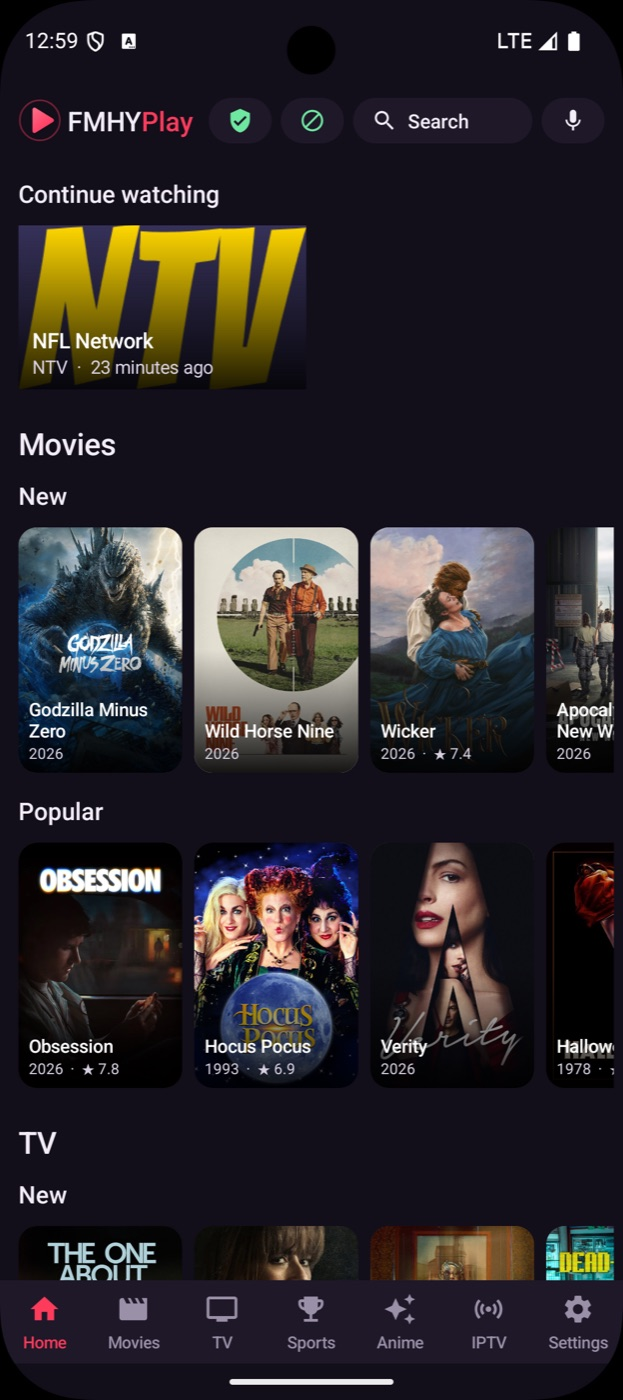
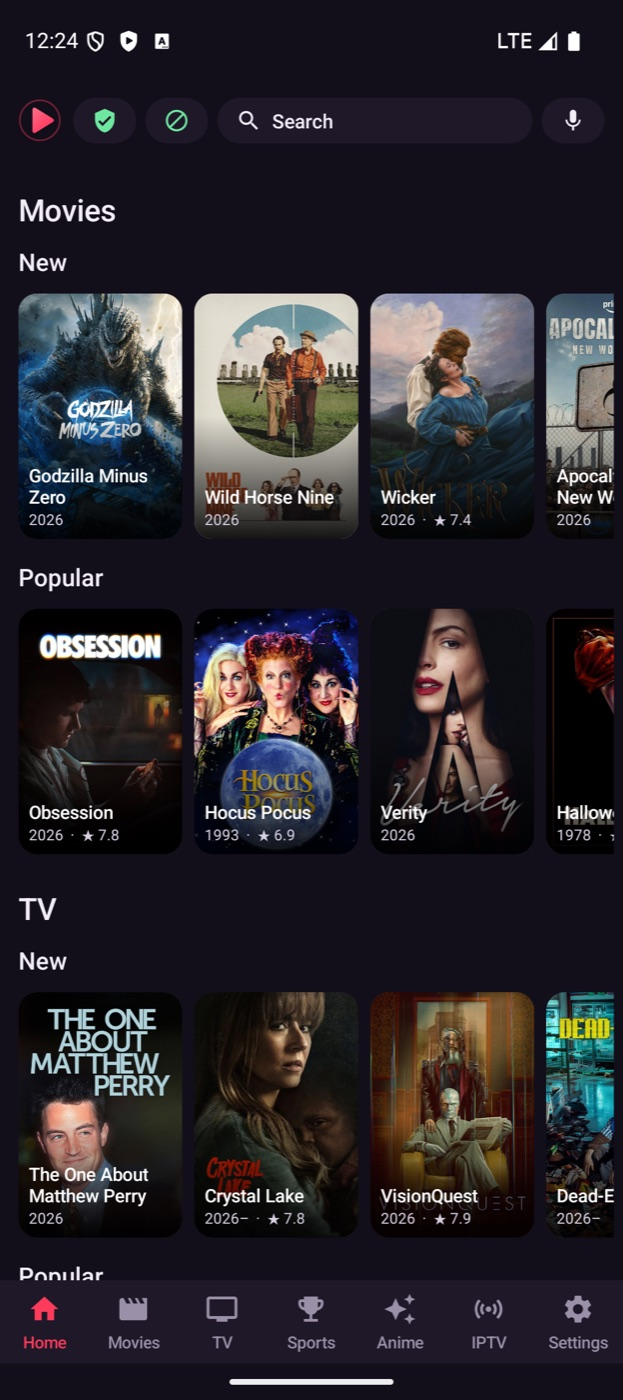
Version 2.18.0: docs, screenshots and release notes
- README, docs/index.html and the user guide: FMHYPlayer, the new button row,
  Episodes / Previous / Next, Skip intro and credits, Sub / Dub, subtitles in
  any language with auto-sync, picture in picture, hold for 2x.
- New screenshots of the player (landscape and the Episodes list) and the
  phone home.

diff --git a/docs/guide.html b/docs/guide.html
@@ -1,8 +1,8 @@
 <!doctype html>
 <html lang="en"><head><meta charset="utf-8"><meta name="viewport" content="width=device-width,initial-scale=1">
 <title>User guide - FMHYPlay</title>
-<meta name="description" content="How to install and use FMHYPlay: the TV remote, touch controls, the native player, IPTV, WARP, ad blocking, your own playlists and Simkl.">
-<meta property="og:title" content="User guide - FMHYPlay"><meta property="og:description" content="How to install and use FMHYPlay: the TV remote, touch controls, the native player, IPTV, WARP, ad blocking, your own playlists and Simkl."><meta property="og:image" content="banner.png">
+<meta name="description" content="How to install and use FMHYPlay: the TV remote, touch controls, FMHYPlayer, IPTV, WARP, ad blocking, your own playlists and Simkl.">
+<meta property="og:title" content="User guide - FMHYPlay"><meta property="og:description" content="How to install and use FMHYPlay: the TV remote, touch controls, FMHYPlayer, IPTV, WARP, ad blocking, your own playlists and Simkl."><meta property="og:image" content="banner.png">
 <meta name="theme-color" content="#120e1a"><link rel="icon" href="icon.png"><link rel="stylesheet" href="style.css">
 </head><body>
 <header class="nav"><div class="in">
@@ -11,7 +11,7 @@
 </div></header>
 
 <main><div class="layout">
-<aside class="toc"><a href="#install">Install</a><a href="#browse">Browse and play</a><a href="#favorites">Favorites and My list</a><a href="#addsite">Add your own site</a><a href="#remote">TV remote</a><a href="#touch">Phone and tablet</a><a href="#player">The player</a><a href="#episodes">Episodes and servers</a><a href="#cast">Cast to TV</a><a href="#subtitles">Subtitles</a><a href="#simkl">Simkl</a><a href="#punchplay">PunchPlay</a><a href="#iptv">IPTV</a><a href="#addstream">Add a stream or playlist</a><a href="#sources">Your own sources</a><a href="#network">WARP and ad blocking</a><a href="#troubleshooting">Troubleshooting</a></aside>
+<aside class="toc"><a href="#install">Install</a><a href="#browse">Browse and play</a><a href="#favorites">Favorites and My list</a><a href="#addsite">Add your own site</a><a href="#remote">TV remote</a><a href="#touch">Phone and tablet</a><a href="#player">FMHYPlayer</a><a href="#episodes">Episodes and skipping</a><a href="#cast">Cast to TV</a><a href="#subtitles">Subtitles</a><a href="#simkl">Simkl</a><a href="#punchplay">PunchPlay</a><a href="#iptv">IPTV</a><a href="#addstream">Add a stream or playlist</a><a href="#sources">Your own sources</a><a href="#network">WARP and ad blocking</a><a href="#troubleshooting">Troubleshooting</a></aside>
 <article>
 <h1>User guide</h1>
 <p class="sub">Everything you need to use FMHYPlay on a TV or a phone.</p>
@@ -42,11 +42,11 @@ adb install -r FMHYPlay-TV-vX.Y.Z.apk</code></pre>
 <p>The tabs along the top (bottom on a phone) are <b>Home</b>, <b>Movies</b>, <b>TV</b>, <b>Sports</b>, <b>Anime</b>, <b>IPTV</b> and <b>Settings</b>.</p>
 <ul>
 <li><b>Sites</b> are the streaming sites from the FMHY lists, grouped by what they carry. Pick one to open it.</li>
-<li><b>Catalog rows</b> show what is popular. Pick a title, then <i>Watch on</i> a site: on many sites it opens the title's own page, on the others it searches for the name.</li>
+<li><b>Catalog rows</b> show what is popular. Pick a title, then <i>Watch on</i> a site: on about 70 sites it opens the title's own page (or the episode you picked), on the others it searches for the name and opens the match. Anime titles list anime sites only, and the sites that open episodes directly come first.</li>
 <li><b>Continue watching</b> on Home brings back the last titles you opened.</li>
 <li>Hold <kbd>OK</kbd> (long-press on a phone) on a site for favorites and mirrors.</li>
 </ul>
-<p>When a site starts a video, FMHYPlay takes it over and opens the native player. <kbd>Back</kbd> returns to the site, and a small <b>Native player</b> button in the corner brings the player back.</p>
+<p>When a site starts a video, FMHYPlay takes it over and opens it in <b>FMHYPlayer</b>. <kbd>Back</kbd> returns to the site, and the <b>FMHYPlayer</b> button on the site's own player brings it back. Sites' "Join our Discord", "What's new" and donate pop-ups are closed for you.</p>
 
 <h2 id="favorites">Favorites and My list</h2>
 <p>Mark what you use most so it is one press away.</p>
@@ -61,7 +61,7 @@ adb install -r FMHYPlay-TV-vX.Y.Z.apk</code></pre>
 <ol>
 <li>On <b>Home</b>, find the <b>Favorites</b> row and press the <b>+ Add a site</b> card.</li>
 <li>Type or paste the address (for example <code>example.com</code>; <code>https://</code> is added for you) and press <i>Add</i>.</li>
-<li>The site appears in Favorites. Open it like any other: the native player, ad blocking, the remote cursor and the Servers and Quality buttons all work on it.</li>
+<li>The site appears in Favorites. Open it like any other: FMHYPlayer, ad blocking, the remote cursor and the Servers and Quality buttons all work on it.</li>
 </ol>
 <p>Hold <kbd>OK</kbd> on it to remove it from your favorites.</p>
 
@@ -72,9 +72,9 @@ adb install -r FMHYPlay-TV-vX.Y.Z.apk</code></pre>
 <tr><td rowspan="2">Sites</td><td>Arrows</td><td>Move a round cursor over the page (or the focus, in focus mode)</td></tr>
 <tr><td>Hold <kbd>OK</kbd> 5 s</td><td>Switch between cursor and focus mode for that site</td></tr>
 <tr><td rowspan="5">Player</td><td><kbd>Left</kbd> <kbd>Right</kbd></td><td>Seek 10 s; hold to go faster (30 s, then 60 s)</td></tr>
-<tr><td><kbd>OK</kbd> / Play</td><td>Pause and play</td></tr>
+<tr><td><kbd>OK</kbd> / Play</td><td>Pause and play; when <i>Skip intro</i> or <i>Next episode</i> shows, it presses that</td></tr>
 <tr><td><kbd>Up</kbd></td><td>Show the controls</td></tr>
-<tr><td><kbd>Down</kbd> / <kbd>Menu</kbd></td><td>Move to the buttons (Servers, Quality, Audio, Subtitles, Speed, Zoom)</td></tr>
+<tr><td><kbd>Down</kbd> / <kbd>Menu</kbd></td><td>Move to the buttons; the one the remote is on shows its name above it</td></tr>
 <tr><td><kbd>Back</kbd></td><td>Close the player and return to the site</td></tr></table>
 <p>Seeking waits until you stop pressing, then jumps once, so holding the key does not make the stream reload on every step.</p>
 
@@ -83,25 +83,31 @@ adb install -r FMHYPlay-TV-vX.Y.Z.apk</code></pre>
 <tr><td>Tap the video</td><td>Show or hide the controls</td></tr>
 <tr><td>Double-tap the left or right third</td><td>Back or forward 10 seconds</td></tr>
 <tr><td>Double-tap the middle</td><td>Pause and play</td></tr>
+<tr><td>Hold the right half</td><td>Play at 2x until you let go</td></tr>
+<tr><td>Hold the left half</td><td>Go back at 2x until you let go</td></tr>
 <tr><td>Swipe up or down on the left half</td><td>Brightness</td></tr>
 <tr><td>Swipe up or down on the right half</td><td>Volume</td></tr>
 <tr><td>Drag the progress bar</td><td>Seek (it jumps once, when you let go)</td></tr></table>
-<p>The player is landscape on phones, whichever way up you hold it, and it keeps clear of camera cut-outs.</p>
+<p>The player follows the rotation lock (the Full screen button turns it), and it keeps clear of camera cut-outs. <b>Picture in picture:</b> press Home while a video plays and it keeps playing in a small window, with play and pause; tap it for full screen, close it to stop.</p>
 
-<h2 id="player">The player</h2>
-<p>The row of buttons shows each setting's current value. A pink value means it is not the default.</p>
-<table><tr><th>Button</th><th>Shows</th><th>Opens</th></tr>
-<tr><td>Quality</td><td>Height and frame rate, for example <code>1080p60</code></td><td>The qualities the stream offers, or the site's own quality list for sites that serve one playlist per quality. The frame rate comes from the stream when it declares one, otherwise it is measured from the frames being shown.</td></tr>
-<tr><td>Audio</td><td>Language code</td><td>The stream's audio tracks by language (only when there is more than one). The language you pick here is remembered: the next videos start in it when they have it, otherwise in your device's language.</td></tr>
-<tr><td>Volume boost, Dialog boost</td><td><code>+6</code>, <code>On</code></td><td>Louder sound (up to +12 dB) and clearer voices for this video; the defaults are in <i>Settings, Player</i></td></tr>
-<tr><td>Subtitles</td><td><code>Off</code> or a language</td><td>The stream's subtitles, a search in OpenSubtitles, and the size, position and timing panel</td></tr>
-<tr><td>Speed</td><td><code>1x</code></td><td>0.5x to 2x</td></tr>
-<tr><td>Zoom</td><td><code>Fit</code></td><td>Cycles Fit, Fill (crops to cover the screen), Stretch, 16:9 and 4:3. Every playback starts on Fit.</td></tr></table>
+<h2 id="player">FMHYPlayer</h2>
+<p>One row of buttons at the bottom; the line under the title says what is playing and what is picked (for example <i>Season 2 · Episode 3 · 1080p · English · Dub</i>). A button only shows when it has something to offer.</p>
+<table><tr><th>Button</th><th>What it does</th></tr>
+<tr><td>Previous, Next</td><td>The episode before or after this one (series and anime).</td></tr>
+<tr><td>Quality</td><td>The qualities the stream offers (with frame rate, for example <code>1080p60</code>), or the site's own quality list for sites that serve one playlist per quality.</td></tr>
+<tr><td>Audio</td><td>The stream's audio tracks by language. The language you pick is remembered: the next videos start in it when they have it, otherwise in your device's language.</td></tr>
+<tr><td>SUB / DUB</td><td>Anime: switches between subtitled and dubbed in one press. The badge says which is playing, and each site remembers your pick.</td></tr>
+<tr><td>Episodes</td><td>The list of episodes: seasons across the top, each episode with its picture and name. The one playing is marked; pick another and it opens.</td></tr>
+<tr><td>Servers</td><td>The site's own servers (see below).</td></tr>
+<tr><td>Subtitles</td><td>The stream's subtitles, <i>Search subtitles</i>, and <i>Settings</i> (size, position, color, background, timing).</td></tr>
+<tr><td>More</td><td>Speed (0.5x to 2x), Volume boost (up to +12 dB), Dialog boost (clearer voices), Zoom (Fit, Fill, Stretch, 16:9, 4:3) and From the start.</td></tr>
+<tr><td>Cast, Full screen</td><td>Send the video to a TV (phone), and turn the phone.</td></tr></table>
 <div class="note">For live channels the −10 and +10 buttons and the progress bar are hidden, since there is nothing to seek in.</div>
 
-<h2 id="episodes">Episodes and servers</h2>
-<p>To switch episode, press <b>Back</b> to return to the site's own player and choose the episode there. FMHYPlay ignores the stream you just left and waits for a different one, then opens it in the native player by itself.</p>
-<p>The <b>Servers</b> button lists the site's own servers (the buttons named Server, Source or Mirror, including ones behind a menu). Choose one: the player closes, FMHYPlay presses it on the site, and the new stream opens by itself.</p>
+<h2 id="episodes">Episodes, skipping and servers</h2>
+<p><b>Episodes:</b> pick a series or anime episode from the catalog, or from the player's <b>Episodes</b>, <b>Previous</b> and <b>Next</b>. On sites whose episode addresses FMHYPlay knows (34 TV and 22 anime sites) the episode opens directly; on the others FMHYPlay opens the show's page and presses the episode in the site's own list, also when it sits behind the player's Episodes and Season menus. The new stream opens in FMHYPlayer by itself.</p>
+<p><b>Skip intro, recap and credits:</b> during an intro or a "Previously on" a <i>Skip intro</i> button shows over the picture; tap it or press <kbd>OK</kbd>. At the credits it becomes <i>Next episode</i> with a 10 second countdown, and the next episode starts by itself. <i>Settings, Skip intros</i> skips intros and recaps without asking. The times come from TheIntroDB and AniSkip, so they are there for most popular shows, anime and many movies.</p>
+<p><b>Servers</b> lists the site's own servers (the buttons named Server, Source or Mirror, including ones behind a menu). Choose one: the player closes, FMHYPlay presses it on the site, and the new stream opens by itself.</p>
 
 <h2 id="cast">Cast to TV</h2>
 <p>Play something on the phone, tap the screen, then tap <b>Cast</b> (the first button in the player) and pick a TV. The TV carries on from the same spot, and the phone becomes the remote: play and pause, the seek bar, −10 s and +10 s, and the TV's volume (the phone's volume keys work too). <b>Stop casting</b> brings the video back to the phone where the TV was. <b>Re-scan</b>, at the end of the list, looks for TVs again.</p>
@@ -114,12 +120,14 @@ adb install -r FMHYPlay-TV-vX.Y.Z.apk</code></pre>
 <div class="note">TCL and some other TVs do not let apps start by themselves after the TV restarts. On those, open FMHYPlay once after a restart and the TV shows up on the phone again.</div>
 
 <h2 id="subtitles">Subtitles</h2>
-<p>Open <b>Subtitles</b>, choose <i>Search OpenSubtitles</i>, then a language and a release. The file is added to the stream and playback continues from the same spot. Pick a release that matches your video (for example the same source and resolution) so the timing lines up. Search needs to know which title is playing: it comes from the catalog when you started from there, otherwise from the page's title and address.</p>
-<p>The last entry in <b>Subtitles</b>, <i>Size, position, timing</i>, opens a panel with − and + buttons:</p>
+<p>Open <b>Subtitles</b>, choose <i>Search subtitles</i>, then a language (the one you picked last, your device's and English are on top, then every language by name) and a file. FMHYPlay downloads the file, converts it so every script shows right (Arabic, Hindi, Chinese and the rest), and playback continues from the same spot. Search needs to know which title is playing: it comes from the catalog when you started from there, otherwise from the page's title and address.</p>
+<p><b>Auto-sync:</b> a file made for another release is often off, sometimes by minutes (a release with a recap). FMHYPlay listens to the speech for a minute or two and lines the file up by itself; a message says when it did. Change the timing yourself and it leaves it alone.</p>
+<p>The last entry in <b>Subtitles</b>, <i>Settings</i>, opens a panel with − and + buttons:</p>
 <ul>
 <li><b>Size</b> and <b>Position</b> (+ moves them up, for TVs that show them too low or too high). Both are remembered, and <i>Settings, Subtitles</i> changes them too.</li>
+<li><b>Color</b> and <b>Background</b>.</li>
 <li><b>Timing</b>: + shows subtitles later, − earlier, 0.1 s a press. It applies to the video you are watching.</li>
-<li><i>Reset</i> puts all three back.</li>
+<li><i>Reset</i> puts them back.</li>
 </ul>
 
 <h2 id="simkl">Simkl</h2>
@@ -129,7 +137,7 @@ adb install -r FMHYPlay-TV-vX.Y.Z.apk</code></pre>
 <li>On your phone or computer open <code>simkl.com/pin</code>, sign in (or make a free account) and enter the code.</li>
 <li>The TV says <i>Connected</i> by itself.</li>
 </ol>
-<p>Only titles opened from Movies, TV or Anime count, since they carry the title's IMDb id. A title is marked watched once you pass 80% in the native player. Press <i>Settings, Simkl</i> again to disconnect.</p>
+<p>Only titles opened from Movies, TV or Anime count, since they carry the title's IMDb id. A title is marked watched once you pass 80% in FMHYPlayer. Press <i>Settings, Simkl</i> again to disconnect.</p>
 
 <h2 id="punchplay">PunchPlay</h2>
 <p><a href="https://punchplay.tv">PunchPlay</a> is another free tracker, and works the same way. You can connect both.</p>
@@ -156,7 +164,7 @@ adb install -r FMHYPlay-TV-vX.Y.Z.apk</code></pre>
 <p>Press <b>+ Playlist</b> on the IPTV tab (or <i>Settings, Add a playlist or stream</i>), paste a link and press <i>Add</i>. Give it a name: that is its row on the IPTV tab. Two kinds of link work:</p>
 <table><tr><th>You paste</th><th>You get</th></tr>
 <tr><td>A <b>playlist</b>: an M3U file that lists channels (<code>#EXTINF</code> lines)</td><td>Every channel in it, with its name, logo and group, in its own row at the top of the IPTV tab</td></tr>
-<tr><td>A single <b>stream</b>: an <code>.m3u8</code> (HLS) link, for example a camera, a live feed or a channel your provider gave you</td><td>One channel in <b>My streams</b>, under the name you gave it or named after the address (for example <code>cdn.example.com · news</code>). It plays in the native player like any other.</td></tr></table>
+<tr><td>A single <b>stream</b>: an <code>.m3u8</code> (HLS) link, for example a camera, a live feed or a channel your provider gave you</td><td>One channel in <b>My streams</b>, under the name you gave it or named after the address (for example <code>cdn.example.com · news</code>). It plays in FMHYPlayer like any other.</td></tr></table>
 <ul>
 <li><b>Xtream Codes</b>: if your provider gave you a server, username and password instead of a link, press <i>Xtream login</i> in the same dialog. The provider's live channels show in their categories. The background channel check never tests them, so the account's connection limit is not used up.</li>
 <li><b>Stalker portal (MAC)</b>: if your provider gave you a portal address (often ending in <code>/c/</code>) and a MAC address for a MAG box, press <i>Stalker portal (MAC)</i> in the same dialog and enter both. The channels get their own row; each one asks the portal for a fresh link when you play it, and the background check never tests them.</li>
@@ -187,8 +195,8 @@ My channels|https://example.com/my-channels.m3u
 <h2 id="troubleshooting">Troubleshooting</h2>
 <table><tr><th>Problem</th><th>Try</th></tr>
 <tr><td>A site does not open</td><td>Turn WARP on, or try a mirror (hold <kbd>OK</kbd> on the site).</td></tr>
-<tr><td>The player does not start</td><td>Press Play on the page first. Some sites start the stream only after a click. Then use the <b>Native player</b> button.</td></tr>
-<tr><td>"Native player could not play this"</td><td>It goes back to the page, which still plays the video itself. Try another server from the page.</td></tr>
+<tr><td>The player does not start</td><td>Press Play on the page first. Some sites start the stream only after a click. Then use the <b>FMHYPlayer</b> button on the site's player.</td></tr>
+<tr><td>"FMHYPlayer could not play this"</td><td>It goes back to the page, which still plays the video itself. Try another server from the page.</td></tr>
 <tr><td>No Servers button</td><td>It appears only when the site's own buttons were found. Use the page's own controls for that site.</td></tr>
 <tr><td>Picture looks zoomed after a quality change</td><td>Seen only on the Android emulator's software decoder; FMHYPlay restarts the decoder there. On a device, set Zoom back to Fit.</td></tr>
 <tr><td>IPTV channels disappear</td><td>They failed the check. Turn off <i>Hide offline channels</i>, or run <i>Check channels now</i> later.</td></tr></table>

diff --git a/docs/index.html b/docs/index.html
@@ -1,8 +1,8 @@
 <!doctype html>
 <html lang="en"><head><meta charset="utf-8"><meta name="viewport" content="width=device-width,initial-scale=1">
 <title>FMHYPlay: any streaming site, a real player</title>
-<meta name="description" content="A TV-first Android app that finds the video a streaming site plays and plays it in a native player, with ad blocking, an in-app WARP tunnel, IPTV and a remote-friendly interface.">
-<meta property="og:title" content="FMHYPlay: any streaming site, a real player"><meta property="og:description" content="A TV-first Android app that finds the video a streaming site plays and plays it in a native player, with ad blocking, an in-app WARP tunnel, IPTV and a remote-friendly interface."><meta property="og:image" content="banner.png">
+<meta name="description" content="A TV-first Android app that finds the video a streaming site plays and plays it in its own player, FMHYPlayer, with ad blocking, an in-app WARP tunnel, IPTV and a remote-friendly interface.">
+<meta property="og:title" content="FMHYPlay: any streaming site, a real player"><meta property="og:description" content="A TV-first Android app that finds the video a streaming site plays and plays it in its own player, FMHYPlayer, with ad blocking, an in-app WARP tunnel, IPTV and a remote-friendly interface."><meta property="og:image" content="banner.png">
 <meta name="theme-color" content="#120e1a"><link rel="icon" href="icon.png"><link rel="stylesheet" href="style.css">
 </head><body>
 <header class="nav"><div class="in">
@@ -15,16 +15,17 @@
 <h1>Any streaming site,<br>a <b>real player</b>.</h1>
 <p class="lead">FMHYPlay opens the sites you choose, finds the video they play and plays it natively: hardware decoding, nothing painted over the picture, and a remote-friendly interface.</p>
 <a class="btn p" href="https://github.com/fmhyplay/android/releases/latest">Download</a><a class="btn s" href="guide.html">User guide</a><a class="btn s" href="build.html">Build from source</a>
-<img class="shot" src="screenshots/player.jpg" alt="The native player">
+<img class="shot" src="screenshots/player.jpg" alt="FMHYPlayer">
 </section>
 
 <h2>What it does</h2>
 <p class="sub">Streaming sites are built for a mouse. FMHYPlay keeps the site and replaces the part that does not work on a TV.</p>
 <div class="grid">
-<div class="card"><h3>Native player</h3><p>Finds the stream the page starts and plays it in ExoPlayer with the hardware decoder. Quality with frame rate, audio, subtitles, speed and zoom.</p></div>
-<div class="card"><h3>Drives the site for you</h3><p>The player's Servers, Quality and Episodes buttons press the site's own buttons, even inside cross-origin iframes. You never go back to the page.</p></div>
+<div class="card"><h3>FMHYPlayer</h3><p>Finds the stream the page starts and plays it in ExoPlayer with the hardware decoder. One row of icons for quality, audio, subtitles and more; picture in picture and hold for 2x on a phone.</p></div>
+<div class="card"><h3>Series and anime</h3><p>Episodes, Previous and Next in the player, Skip intro and credits, a Next episode countdown, and Sub / Dub for anime. Episodes open directly on dozens of sites.</p></div>
+<div class="card"><h3>Drives the site for you</h3><p>Pick a title and the site opens on its page. The player's Episodes, Servers and Quality buttons press the site's own buttons, even inside cross-origin iframes. You never go back to the page.</p></div>
 <div class="card"><h3>Cast to your TV</h3><p>Like YouTube: tap Cast in the phone's player and the TV carries on from the same spot, with the phone as the remote. Works with FMHYPlay on the TV, any Chromecast, or DLNA smart TVs.</p></div>
-<div class="card"><h3>Subtitles and sound</h3><p>OpenSubtitles built in and remembered per title, with size, position, color and background. Volume boost and Dialog boost for quiet voices.</p></div>
+<div class="card"><h3>Subtitles and sound</h3><p>Subtitles in any language from OpenSubtitles, lined up with the speech by themselves and remembered per title. Volume boost and Dialog boost for quiet voices.</p></div>
 <div class="card"><h3>Resume anywhere</h3><p>Continue watching remembers your spot on any site or server, with New and Popular for Movies, TV and Anime on Home and one search for everything.</p></div>
 <div class="card"><h3>Your language</h3><p>English, Hindi, Spanish, Portuguese, Indonesian, Arabic and German, picked from the device's language.</p></div>
 <div class="card"><h3>Built for the remote</h3><p>Focus navigation designed for D-pads, a cursor mode for stubborn pages, and a TV launcher. On a phone: brightness and volume swipes, double-tap to skip.</p></div>
@@ -46,6 +47,7 @@
 <p class="sub">The same app and the same player, on a touch screen.</p>
 <div class="phones"><img src="screenshots/phone-home.jpg" alt="Phone home"><img src="screenshots/phone-cast.jpg" alt="The phone as the remote"><img src="screenshots/phone-hindi.jpg" alt="Home in Hindi"></div>
 <img class="shot" src="screenshots/phone-player.jpg" alt="Phone player" style="max-width:760px;margin:18px auto 0">
+<div class="phones" style="margin-top:18px"><img src="screenshots/phone-episodes.jpg" alt="Episodes list in the player"></div>
 
 <h2>Under the hood</h2>
 <div class="grid">

diff --git a/CHANGELOG.md b/CHANGELOG.md
@@ -2,39 +2,32 @@
 
 Each `vX.Y.Z` tag publishes the TV and Android APKs; its section below becomes the release notes.
 
-## Unreleased
+## 2.18.0
 
 ### ✨ New
-- **Series and anime in the player**: Previous, Next and an Episodes list (seasons, pictures, names) right in the player; the next episode starts by itself at the end. Picking one opens it on the site and the player follows.
-- **Sub / Dub button** in the player for anime: one tap switches, and each site remembers your pick.
-- **Movies start by themselves**: a movie opened on its site's own page has its Play pressed for you.
-- **Episodes open directly** on 34 TV sites and 22 anime sites (no searching or clicking on the site); on other sites the app presses the episode in the site's own list, also when it sits behind the player's Episodes and Season menus (P-Stream sites like Cinefork, Aether, Basement), and the first episode such a site starts by itself is not handed over meanwhile. A site's own promo clip is never taken for the video.
-- **Sites without a known address open the title's page too**: the app searches the site, then opens the matching result (name, and year when shown) instead of leaving you on the results.
-- **Anime opens on anime sites only**, the ones that open episodes directly first; Watch starts Episode 1 there.
-- **Site nag pop-ups closed by themselves**: "Join our Discord", "What's new", donate, ad-block and new-domain notices.
-- **Skip intro, recap and credits**, for series, anime and movies: a button over the picture during the intro or recap; it takes the remote's focus, so OK presses it. At the credits it offers the next episode and plays it after 10 s; with no next one it skips the credits. Times come from TheIntroDB and AniSkip; without them the last 30 s of an episode offer the next one.
-- **Settings, Skip intros**: intros and recaps go by themselves when their times are known.
-- **Subtitles in any language**: pick a language first (Arabic and others that never showed now do), then a file; files are converted so every script shows right. They also line up with the speech by themselves when a file is off (a release with a recap can be minutes off).
-- **Picture in picture** (phone): Home while a video plays keeps it playing in a small window, with play / pause; tap it for full screen, close it to stop.
-- **Hold to speed up**: hold the right side of the picture for 2x, the left side to go back at 2x.
-
-### 🐞 Fixed
-- **IPTV lists on a TV**: the last channel tile kept its pink ring after the remote moved up to the chips, so two things looked selected.
-- **StreamCorner** showed a blank page (it refuses to start when the page's fetch is watched as it loads) and its live streams (FLV) never reached the player: both work now.
-- **Servers** on Cinejoy showed the player's two "10" skip buttons; it now finds the real server list (it opens a moment later).
-- **Sites that pass every stream through one proxy address** (NekoWatch and others): a new episode or the Dub version now goes to the native player instead of being taken for the old stream.
-- **App closed on start on Android 8 and 9** (many TV boxes, Fire OS 7, older Sony TVs) because of the cast service; some sites could also close the app there.
-- **Subtitle settings in landscape**: the panel scrolls and Reset / Done stay on screen.
+- **Series and anime in the player**: Episodes list (seasons, pictures, names), Previous and Next, and the next episode starts by itself.
+- **Skip intro, recap and credits**, with a Next episode countdown at the credits (OK on the remote presses it). Settings, Skip intros skips them without asking.
+- **Sub / Dub button** for anime: one press switches, each site remembers your pick.
+- **Episodes open directly** on 34 TV sites and 22 anime sites. Elsewhere the app presses the episode on the site for you, also behind a player's Episodes menu (Cinefork, Aether, Basement).
+- **A title's own page** opens on about 70 sites; the others are searched and the match opened. Anime opens on anime sites only.
+- **Subtitles in any language** (Arabic and others that never showed), converted so every script shows right, and lined up with the speech by themselves when a file is off.
+- **Picture in picture** on phones, and **hold for 2x**: right side forward, left side back.
+- **Site pop-ups** like "Join our Discord" and "What's new" close by themselves; movies opened from the catalog start playing by themselves.
 
 ### 🔧 Changed
-- **WARP connects on more networks**: it looks for Cloudflare's sign-up address in several places at once (built-in, your network's DNS, public DNS, DNS over HTTPS), tries three times, and says why it failed. If Cloudflare is limiting sign-ups from your network (HTTP 429) it stops at once instead of retrying.
-- **Settings, WARP DNS**: type your internet provider's DNS (from your router) if WARP can't connect; it is asked first.
-- **Movies, TV, Anime and the update alert no longer wait for WARP**: they go out directly first, and use WARP only if that fails.
-- **Player buttons**: one compact row of icons (Previous, Next, Quality, Audio, Sub / Dub, Episodes, Servers, Subtitles, More, Cast, Full screen); what is picked (quality, audio, subtitles, server) shows under the title. Speed, boosts, zoom and Restart moved into More. New icon set.
-- **FMHYPlayer**: the player has a name. Its button sits on the site's own player, with the app's icon, and shows as soon as a stream is found.
-- **Subtitles**: the style entry is called Settings.
-- **On a TV**, the player button the remote is on shows its name above it.
+- **New player look**: one row of icons (Previous, Next, Quality, Audio, Sub / Dub, Episodes, Servers, Subtitles, More, Cast, Full screen) and what is picked under the title. Speed, boosts, zoom and From the start are in More. On a TV the button the remote is on shows its name.
+- **FMHYPlayer**: the player has a name; its button sits on the site's own player.
+- **WARP connects on more networks**, says why when it can't, and stops at once when Cloudflare limits sign-ups (HTTP 429). **Settings, WARP DNS** takes your provider's DNS.
+- **Movies, TV, Anime and the update alert** no longer wait for WARP.
 - **Phone top bar**: the logo alone, so Search gets the room.
+
+### 🐞 Fixed
+- **App closed on start on Android 8 and 9** (many TV boxes, Fire OS 7, older Sony TVs).
+- **StreamCorner** showed a blank page and its live streams never reached the player.
+- **NekoWatch and other sites behind one proxy address**: a new episode or the Dub version now reaches the player.
+- **Servers on Cinejoy** listed the player's skip buttons.
+- **IPTV on a TV**: a channel tile kept its ring after the remote moved to the chips.
+- **Subtitle settings in landscape**: Reset and Done stay on screen.
 
 ## 2.17.1
 

diff --git a/README.md b/README.md
@@ -23,15 +23,15 @@
 </p>
 
 <p align="center">
-  <img src="docs/screenshots/player.jpg" alt="The native player" width="760">
+  <img src="docs/screenshots/player.jpg" alt="FMHYPlayer" width="760">
 </p>
 
 ## Why
 
 Streaming sites are built for a desktop browser with a mouse. On a TV remote they are painful, they are full of pop-ups, and their embedded players stutter on weak hardware. FMHYPlay keeps the site (so you keep every title and server it offers) but takes over the part that goes wrong:
 
-- It **finds the video stream** the page starts and plays it in ExoPlayer with the hardware decoder, with nothing painted over the picture.
-- It **drives the site for you**: the player's Servers and Quality buttons press the site's own buttons, so you do not go back to the page to switch.
+- It **finds the video stream** the page starts and plays it in **FMHYPlayer** (ExoPlayer with the hardware decoder), with nothing painted over the picture.
+- It **drives the site for you**: pick a title and it opens that title's page (or the exact episode); the player's Episodes, Sub / Dub, Servers and Quality buttons press the site's own buttons, so you do not go back to the page.
 - It **blocks ads and pop-ups**, **tunnels the app's own traffic** through Cloudflare WARP when you want it, and works with a **TV remote** and with **touch**.
 
 ## Features
@@ -44,23 +44,31 @@ Streaming sites are built for a desktop browser with a mouse. On a TV remote the
 
 <p align="center"><img src="docs/cast.svg" alt="Cast from the phone to a TV on the same Wi-Fi" width="760"></p>
 
-**Native player**
-- Hands off automatically when a page starts an HLS or DASH stream; falls back to the page if the stream cannot be played
+**Series and anime**
+- **Episodes** list in the player (seasons, stills, names), **Previous** and **Next**, and the next episode starts by itself
+- **Skip intro, recap and credits** (times from TheIntroDB and AniSkip), with a Next episode countdown at the credits; *Settings, Skip intros* skips them for you
+- **Sub / Dub** button for anime, remembered per site
+- Opens the exact episode directly on 34 TV sites and 22 anime sites; elsewhere it presses the episode in the site's own list or menus
+
+**FMHYPlayer**
+- Hands off automatically when a page starts an HLS, DASH or live FLV stream; falls back to the page if the stream cannot be played
+- One row of icon buttons: Previous, Next, Quality, Audio, Sub / Dub, Episodes, Servers, Subtitles, More, Cast, Full screen; what is picked shows under the title, and on a TV the button the remote is on shows its name
 - Replays the page's Referer, Origin and cookies, so streams that check them still play
 - **Resumes where you stopped on any site or server**, with a Restart button
 - Quality list with frame rate (for example 1080p60), audio and subtitle tracks, speed and zoom modes
 - **Servers and Quality buttons that control the site's own player**, including players inside cross-origin iframes
 - **Volume boost** (up to +12 dB) and **Dialog boost** (clearer voices, on by default)
-- **OpenSubtitles** built in, remembered per title, optional auto subtitles in your language; size, position, color, background and timing
+- **Subtitles in any language** from OpenSubtitles, converted so every script shows right, remembered per title, optional auto subtitles in your language, and **auto-sync** that lines a file up with the speech; size, position, color, background and timing
 - **Simkl** and **PunchPlay** tracking (optional): what you watch is tracked there, titles you finish are marked watched
-- Phone: follows the rotation lock with a Full screen button; swipe for brightness and volume, double-tap to skip 10 seconds
+- Phone: **picture in picture**, hold the right or left side for **2x**, follows the rotation lock with a Full screen button; swipe for brightness and volume, double-tap to skip 10 seconds
 
 **Browsing**
 - Home with Continue watching, Favorites, and **New and Popular** for Movies, TV and Anime (from Cinemeta and Kitsu)
 - **One search** for movies, series, IPTV channels and sites, by typing or by voice
-- A directory of streaming sites that tracks the [FMHY](https://github.com/fmhy/edit) lists; opens a title's own page on many sites
+- A directory of streaming sites that tracks the [FMHY](https://github.com/fmhy/edit) lists; opens a title's own page on about 70 sites and searches the rest for you, then opens the match
+- Anime opens on anime sites only
 - **Add your own site**, an optional address bar, dark pages, a cursor for the TV remote (with funny and useful looks)
-- Pop-ups that are real links open in the same tab (Back returns); pop-up ads are dropped
+- Pop-ups that are real links open in the same tab (Back returns); pop-up ads are dropped, and "Join our Discord" style nag dialogs close by themselves
 
 **Your language**
 - English, Hindi, Spanish, Portuguese, Indonesian, Arabic (right to left) and German, picked from the phone's or TV's language
@@ -104,6 +112,10 @@ Streaming sites are built for a desktop browser with a mouse. On a TV remote the
 
 <p align="center">
   <img src="docs/screenshots/phone-player.jpg" alt="Phone player" width="760">
+</p>
+
+<p align="center">
+  <img src="docs/screenshots/phone-episodes.jpg" alt="Episodes list in the player" height="420">
 </p>
 
 ## Install
